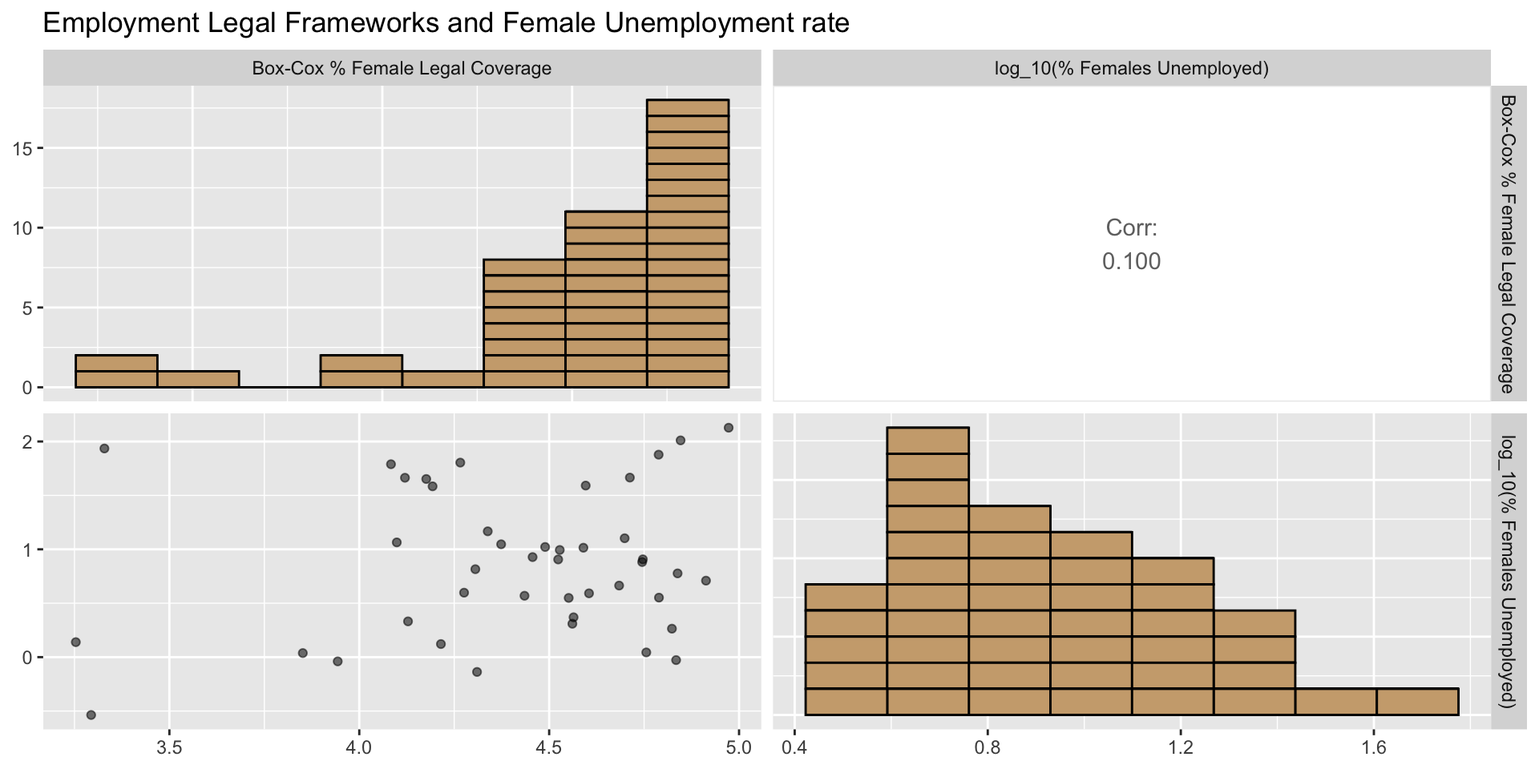
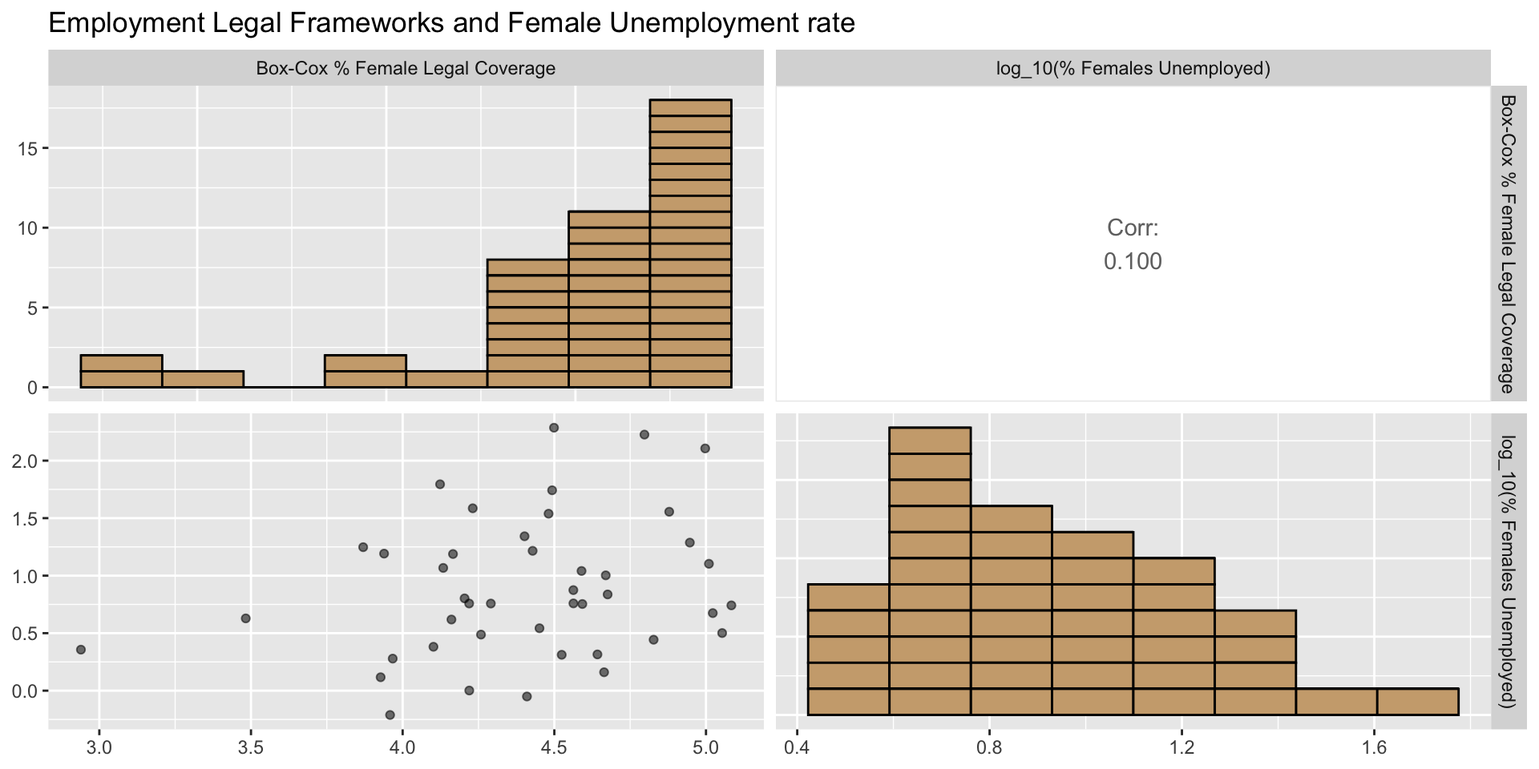
added some details

diff --git a/csc3007-black2/csc3007-black2.html b/csc3007-black2/csc3007-black2.html
@@ -431,20 +431,20 @@ CHIA YI XUAN, TSUI SAU CHI, JEANIE OH JUN NING, VARADHARAJAN JAYAPRIYA, GU JINMI
 <section id="table-of-women-economical-success" class="slide level2 center">
 <h2>Table of Women Economical Success</h2>
 </section>
-<section id="vs-8.5.2-anticipation-1" class="slide level2 center">
-<h2>5.1.1 vs 8.5.2 Anticipation</h2>
+<section id="anticipation-of-what-having-fair-employment-frameworks-does-to-female-unemployment" class="slide level2 center">
+<h2>Anticipation of what having Fair Employment Frameworks does to Female Unemployment</h2>
 <p>We anticipate that having a higher the nation’s legal framework achievements in gender equality would result in lower unemployment rate for women.</p>
 <ul>
 <li>Because by decreasing gender discrimination for women, more companies would be willing to employ women.</li>
 </ul>
 </section>
-<section id="vs-8.5.2-relation" class="slide level2 center">
-<h2>5.1.1 vs 8.5.2 Relation</h2>
+<section id="fair-employment-frameworks-vs-female-unemployment-rates" class="slide level2 center">
+<h2>Fair Employment Frameworks vs Female Unemployment Rates</h2>
 <p><small>There doesn’t seem to be any significant correlation between the percentage of legal employment and benefit frameworks for females, and the unemployment rate of females. However, this might be due to skewed distributions, hence we will re-express this data. </small></p>
 
 <img data-src="csc3007-black2_files/figure-revealjs/unnamed-chunk-10-1.png" width="960" class="r-stretch"></section>
-<section id="vs-8.5.2-relation-re-expressed" class="slide level2 center">
-<h2>5.1.1 vs 8.5.2 Relation Re-Expressed</h2>
+<section id="fair-employment-frameworks-vs-female-unemployment-rates-re-expressed" class="slide level2 center">
+<h2>Fair Employment Frameworks vs Female Unemployment Rates Re-Expressed</h2>
 <p><small>After Box Cox and logarithmic transformations, correlation coefficient seems to have improved positively. However, it still appears to be insignificant. </small></p>
 
 <img data-src="csc3007-black2_files/figure-revealjs/unnamed-chunk-11-1.png" width="960" class="r-stretch"></section>
@@ -457,7 +457,7 @@ CHIA YI XUAN, TSUI SAU CHI, JEANIE OH JUN NING, VARADHARAJAN JAYAPRIYA, GU JINMI
 </section>
 <section id="vs-8.5.1-relation" class="slide level2 center">
 <h2><strong>5.5.2 vs 8.5.1 Relation</strong></h2>
-<p>There seems to be a negative correlation between the percentage of female hourly earnings and women in managerial positions. However, this might be due to skewed distributions of female hourly earnings, hence we will re-express this data using logarithmic transformations .</p>
+<p><small> There seems to be a negative correlation between the percentage of female hourly earnings and women in managerial positions. However, this might be due to skewed distributions of female hourly earnings, hence we will re-express this data using logarithmic transformations . </small></p>
 
 <img data-src="csc3007-black2_files/figure-revealjs/unnamed-chunk-12-1.png" width="960" class="r-stretch"></section>
 <section id="four-variable-pair-plot" class="slide level2 center">
@@ -489,8 +489,13 @@ CHIA YI XUAN, TSUI SAU CHI, JEANIE OH JUN NING, VARADHARAJAN JAYAPRIYA, GU JINMI
 </section>
 <section id="summary-of-quantitative-results" class="slide level2 center">
 <h2>Summary of Quantitative Results</h2>
-<p># See project-sample slide 23</p>
-<p># Last item, require above to be done</p>
+<ul>
+<li>Moderate correlation between same-goal indicators.</li>
+<li>Moderate correlation between legal employment and benefit frameworks for females and the representation of women in managerial positions.</li>
+<li>Little correlations of statistical significance are observed between indicators for different goals.</li>
+<li>Potentially influenced by the country’s originally high unemployment rates across all genders.</li>
+<li>Missing data for significant countries such as Russia and China.</li>
+</ul>
 </section>
 <section id="policy-implications" class="slide level2 center">
 <h2>Policy Implications</h2>
@@ -774,247 +779,244 @@ cmap_852 &lt;-
 /Users/yxchia/Documents/Github &amp; Codes/csc3007-black2/csc3007-black2/csc3007-black2.qmd:519:81: style: [line_length_linter] Lines should not be more than 80 characters.
   select(Country, `% Legal Frameworks`, `% Managerial Positions`, `% Females Unemployed`, `Average Hourly Earnings $USD`)
 ~~~~~~~~~~~~~~~~~~~~~~~~~~~~~~~~~~~~~~~~~~~~~~~~~~~~~~~~~~~~~~~~~~~~~~~~~~~~~~~~^~~~~~~~~~~~~~~~~~~~~~~~~~~~~~~~~~~~~~~~~
-/Users/yxchia/Documents/Github &amp; Codes/csc3007-black2/csc3007-black2/csc3007-black2.qmd:522:5: style: [commented_code_linter] Commented code should be removed.
-#   add_header_above(c(" " = 1, "Group 1" = 2, "Group 2" = 2))
-    ^~~~~~~~~~~~~~~~~~~~~~~~~~~~~~~~~~~~~~~~~~~~~~~~~~~~~~~~~~
-/Users/yxchia/Documents/Github &amp; Codes/csc3007-black2/csc3007-black2/csc3007-black2.qmd:527:11: style: [commented_code_linter] Commented code should be removed.
+/Users/yxchia/Documents/Github &amp; Codes/csc3007-black2/csc3007-black2/csc3007-black2.qmd:524:11: style: [commented_code_linter] Commented code should be removed.
 #         "function(settings, json) {",
           ^~~~~~~~~~~~~~~~~~~~~~~~~~~~~
-/Users/yxchia/Documents/Github &amp; Codes/csc3007-black2/csc3007-black2/csc3007-black2.qmd:528:11: style: [commented_code_linter] Commented code should be removed.
+/Users/yxchia/Documents/Github &amp; Codes/csc3007-black2/csc3007-black2/csc3007-black2.qmd:525:11: style: [commented_code_linter] Commented code should be removed.
 #         paste0("$(this.api().table().container()).css({'font-size': '50%'});"),
           ^~~~~~~~~~~~~~~~~~~~~~~~~~~~~~~~~~~~~~~~~~~~~~~~~~~~~~~~~~~~~~~~~~~~~~~
-/Users/yxchia/Documents/Github &amp; Codes/csc3007-black2/csc3007-black2/csc3007-black2.qmd:528:81: style: [line_length_linter] Lines should not be more than 80 characters.
+/Users/yxchia/Documents/Github &amp; Codes/csc3007-black2/csc3007-black2/csc3007-black2.qmd:525:81: style: [line_length_linter] Lines should not be more than 80 characters.
 #         paste0("$(this.api().table().container()).css({'font-size': '50%'});"),
 ~~~~~~~~~~~~~~~~~~~~~~~~~~~~~~~~~~~~~~~~~~~~~~~~~~~~~~~~~~~~~~~~~~~~~~~~~~~~~~~~^
-/Users/yxchia/Documents/Github &amp; Codes/csc3007-black2/csc3007-black2/csc3007-black2.qmd:547:81: style: [line_length_linter] Lines should not be more than 80 characters.
+/Users/yxchia/Documents/Github &amp; Codes/csc3007-black2/csc3007-black2/csc3007-black2.qmd:544:81: style: [line_length_linter] Lines should not be more than 80 characters.
 # Correlation Graph. See Sample-Project slide 11,12,15 *Please Judge if is approriate. Goal is to see if there is any significant statitical correlation 
 ~~~~~~~~~~~~~~~~~~~~~~~~~~~~~~~~~~~~~~~~~~~~~~~~~~~~~~~~~~~~~~~~~~~~~~~~~~~~~~~~^~~~~~~~~~~~~~~~~~~~~~~~~~~~~~~~~~~~~~~~~~~~~~~~~~~~~~~~~~~~~~~~~~~~~~~~~
-/Users/yxchia/Documents/Github &amp; Codes/csc3007-black2/csc3007-black2/csc3007-black2.qmd:547:153: style: [trailing_whitespace_linter] Trailing whitespace is superfluous.
+/Users/yxchia/Documents/Github &amp; Codes/csc3007-black2/csc3007-black2/csc3007-black2.qmd:544:153: style: [trailing_whitespace_linter] Trailing whitespace is superfluous.
 # Correlation Graph. See Sample-Project slide 11,12,15 *Please Judge if is approriate. Goal is to see if there is any significant statitical correlation 
                                                                                                                                                         ^
-/Users/yxchia/Documents/Github &amp; Codes/csc3007-black2/csc3007-black2/csc3007-black2.qmd:550:67: style: [trailing_whitespace_linter] Trailing whitespace is superfluous.
+/Users/yxchia/Documents/Github &amp; Codes/csc3007-black2/csc3007-black2/csc3007-black2.qmd:547:67: style: [trailing_whitespace_linter] Trailing whitespace is superfluous.
 formatted_5_1_1 &lt;- indicator_5_1_1_employment_economic_benefits |&gt; 
                                                                   ^
-/Users/yxchia/Documents/Github &amp; Codes/csc3007-black2/csc3007-black2/csc3007-black2.qmd:552:81: style: [line_length_linter] Lines should not be more than 80 characters.
+/Users/yxchia/Documents/Github &amp; Codes/csc3007-black2/csc3007-black2/csc3007-black2.qmd:549:81: style: [line_length_linter] Lines should not be more than 80 characters.
   select("Country" = geoAreaName, ISO3, "% Female Legal Coverage" = latest_value) |&gt;
 ~~~~~~~~~~~~~~~~~~~~~~~~~~~~~~~~~~~~~~~~~~~~~~~~~~~~~~~~~~~~~~~~~~~~~~~~~~~~~~~~^~~~
-/Users/yxchia/Documents/Github &amp; Codes/csc3007-black2/csc3007-black2/csc3007-black2.qmd:558:81: style: [line_length_linter] Lines should not be more than 80 characters.
+/Users/yxchia/Documents/Github &amp; Codes/csc3007-black2/csc3007-black2/csc3007-black2.qmd:555:81: style: [line_length_linter] Lines should not be more than 80 characters.
   select("Country" = geoAreaName, ISO3, disability_status_desc, "sex" = sex_desc, "% Females Unemployed" = latest_value) |&gt;
 ~~~~~~~~~~~~~~~~~~~~~~~~~~~~~~~~~~~~~~~~~~~~~~~~~~~~~~~~~~~~~~~~~~~~~~~~~~~~~~~~^~~~~~~~~~~~~~~~~~~~~~~~~~~~~~~~~~~~~~~~~~~
-/Users/yxchia/Documents/Github &amp; Codes/csc3007-black2/csc3007-black2/csc3007-black2.qmd:559:81: style: [line_length_linter] Lines should not be more than 80 characters.
+/Users/yxchia/Documents/Github &amp; Codes/csc3007-black2/csc3007-black2/csc3007-black2.qmd:556:81: style: [line_length_linter] Lines should not be more than 80 characters.
   filter(`sex` %in% c("Female"), disability_status_desc == "No breakdown by disability") |&gt;
 ~~~~~~~~~~~~~~~~~~~~~~~~~~~~~~~~~~~~~~~~~~~~~~~~~~~~~~~~~~~~~~~~~~~~~~~~~~~~~~~~^~~~~~~~~~~
-/Users/yxchia/Documents/Github &amp; Codes/csc3007-black2/csc3007-black2/csc3007-black2.qmd:571:10: style: [trailing_whitespace_linter] Trailing whitespace is superfluous.
+/Users/yxchia/Documents/Github &amp; Codes/csc3007-black2/csc3007-black2/csc3007-black2.qmd:568:10: style: [trailing_whitespace_linter] Trailing whitespace is superfluous.
 # initial 
          ^
-/Users/yxchia/Documents/Github &amp; Codes/csc3007-black2/csc3007-black2/csc3007-black2.qmd:575:47: style: [trailing_whitespace_linter] Trailing whitespace is superfluous.
+/Users/yxchia/Documents/Github &amp; Codes/csc3007-black2/csc3007-black2/csc3007-black2.qmd:572:47: style: [trailing_whitespace_linter] Trailing whitespace is superfluous.
         columns = c("% Female Legal Coverage", 
                                               ^
-/Users/yxchia/Documents/Github &amp; Codes/csc3007-black2/csc3007-black2/csc3007-black2.qmd:577:81: style: [line_length_linter] Lines should not be more than 80 characters.
+/Users/yxchia/Documents/Github &amp; Codes/csc3007-black2/csc3007-black2/csc3007-black2.qmd:574:81: style: [line_length_linter] Lines should not be more than 80 characters.
         diag = list(continuous = wrap("barDiag", bins = 10, color = "black", alpha = 1)),
 ~~~~~~~~~~~~~~~~~~~~~~~~~~~~~~~~~~~~~~~~~~~~~~~~~~~~~~~~~~~~~~~~~~~~~~~~~~~~~~~~^~~~~~~~~
-/Users/yxchia/Documents/Github &amp; Codes/csc3007-black2/csc3007-black2/csc3007-black2.qmd:578:49: style: [trailing_whitespace_linter] Trailing whitespace is superfluous.
+/Users/yxchia/Documents/Github &amp; Codes/csc3007-black2/csc3007-black2/csc3007-black2.qmd:575:49: style: [trailing_whitespace_linter] Trailing whitespace is superfluous.
         lower = list(continuous = wrap("points", 
                                                 ^
-/Users/yxchia/Documents/Github &amp; Codes/csc3007-black2/csc3007-black2/csc3007-black2.qmd:579:46: style: [infix_spaces_linter] Put spaces around all infix operators.
+/Users/yxchia/Documents/Github &amp; Codes/csc3007-black2/csc3007-black2/csc3007-black2.qmd:576:46: style: [infix_spaces_linter] Put spaces around all infix operators.
                                      position=position_jitter(
                                              ^
-/Users/yxchia/Documents/Github &amp; Codes/csc3007-black2/csc3007-black2/csc3007-black2.qmd:580:51: style: [trailing_whitespace_linter] Trailing whitespace is superfluous.
+/Users/yxchia/Documents/Github &amp; Codes/csc3007-black2/csc3007-black2/csc3007-black2.qmd:577:51: style: [trailing_whitespace_linter] Trailing whitespace is superfluous.
                                        height = 1, 
                                                   ^
-/Users/yxchia/Documents/Github &amp; Codes/csc3007-black2/csc3007-black2/csc3007-black2.qmd:583:27: style: [infix_spaces_linter] Put spaces around all infix operators.
+/Users/yxchia/Documents/Github &amp; Codes/csc3007-black2/csc3007-black2/csc3007-black2.qmd:580:27: style: [infix_spaces_linter] Put spaces around all infix operators.
   scale_fill_manual(values=c(rep("burlywood3", nrow(merged_data))))
                           ^
-/Users/yxchia/Documents/Github &amp; Codes/csc3007-black2/csc3007-black2/csc3007-black2.qmd:584:3: style: [commented_code_linter] Commented code should be removed.
+/Users/yxchia/Documents/Github &amp; Codes/csc3007-black2/csc3007-black2/csc3007-black2.qmd:581:3: style: [commented_code_linter] Commented code should be removed.
 # ggplotly(plot)
   ^~~~~~~~~~~~~~
-/Users/yxchia/Documents/Github &amp; Codes/csc3007-black2/csc3007-black2/csc3007-black2.qmd:614:55: style: [trailing_whitespace_linter] Trailing whitespace is superfluous.
+/Users/yxchia/Documents/Github &amp; Codes/csc3007-black2/csc3007-black2/csc3007-black2.qmd:611:55: style: [trailing_whitespace_linter] Trailing whitespace is superfluous.
         columns = c("Box-Cox % Female Legal Coverage", 
                                                       ^
-/Users/yxchia/Documents/Github &amp; Codes/csc3007-black2/csc3007-black2/csc3007-black2.qmd:616:81: style: [line_length_linter] Lines should not be more than 80 characters.
+/Users/yxchia/Documents/Github &amp; Codes/csc3007-black2/csc3007-black2/csc3007-black2.qmd:613:81: style: [line_length_linter] Lines should not be more than 80 characters.
         diag = list(continuous = wrap("barDiag", bins = 8, color = "black", alpha = 1)),
 ~~~~~~~~~~~~~~~~~~~~~~~~~~~~~~~~~~~~~~~~~~~~~~~~~~~~~~~~~~~~~~~~~~~~~~~~~~~~~~~~^~~~~~~~
-/Users/yxchia/Documents/Github &amp; Codes/csc3007-black2/csc3007-black2/csc3007-black2.qmd:617:49: style: [trailing_whitespace_linter] Trailing whitespace is superfluous.
+/Users/yxchia/Documents/Github &amp; Codes/csc3007-black2/csc3007-black2/csc3007-black2.qmd:614:49: style: [trailing_whitespace_linter] Trailing whitespace is superfluous.
         lower = list(continuous = wrap("points", 
                                                 ^
-/Users/yxchia/Documents/Github &amp; Codes/csc3007-black2/csc3007-black2/csc3007-black2.qmd:618:46: style: [infix_spaces_linter] Put spaces around all infix operators.
+/Users/yxchia/Documents/Github &amp; Codes/csc3007-black2/csc3007-black2/csc3007-black2.qmd:615:46: style: [infix_spaces_linter] Put spaces around all infix operators.
                                      position=position_jitter(
                                              ^
-/Users/yxchia/Documents/Github &amp; Codes/csc3007-black2/csc3007-black2/csc3007-black2.qmd:619:46: style: [infix_spaces_linter] Put spaces around all infix operators.
+/Users/yxchia/Documents/Github &amp; Codes/csc3007-black2/csc3007-black2/csc3007-black2.qmd:616:46: style: [infix_spaces_linter] Put spaces around all infix operators.
                                        height=1, 
                                              ^
-/Users/yxchia/Documents/Github &amp; Codes/csc3007-black2/csc3007-black2/csc3007-black2.qmd:619:49: style: [trailing_whitespace_linter] Trailing whitespace is superfluous.
+/Users/yxchia/Documents/Github &amp; Codes/csc3007-black2/csc3007-black2/csc3007-black2.qmd:616:49: style: [trailing_whitespace_linter] Trailing whitespace is superfluous.
                                        height=1, 
                                                 ^
-/Users/yxchia/Documents/Github &amp; Codes/csc3007-black2/csc3007-black2/csc3007-black2.qmd:620:45: style: [infix_spaces_linter] Put spaces around all infix operators.
+/Users/yxchia/Documents/Github &amp; Codes/csc3007-black2/csc3007-black2/csc3007-black2.qmd:617:45: style: [infix_spaces_linter] Put spaces around all infix operators.
                                        width=0.5)))) +
                                             ^
-/Users/yxchia/Documents/Github &amp; Codes/csc3007-black2/csc3007-black2/csc3007-black2.qmd:621:27: style: [infix_spaces_linter] Put spaces around all infix operators.
+/Users/yxchia/Documents/Github &amp; Codes/csc3007-black2/csc3007-black2/csc3007-black2.qmd:618:27: style: [infix_spaces_linter] Put spaces around all infix operators.
   scale_fill_manual(values=c(rep("burlywood3", nrow(merged_data))))
                           ^
-/Users/yxchia/Documents/Github &amp; Codes/csc3007-black2/csc3007-black2/csc3007-black2.qmd:623:3: style: [commented_code_linter] Commented code should be removed.
+/Users/yxchia/Documents/Github &amp; Codes/csc3007-black2/csc3007-black2/csc3007-black2.qmd:620:3: style: [commented_code_linter] Commented code should be removed.
 # ggplotly(plot)
   ^~~~~~~~~~~~~~
-/Users/yxchia/Documents/Github &amp; Codes/csc3007-black2/csc3007-black2/csc3007-black2.qmd:639:81: style: [line_length_linter] Lines should not be more than 80 characters.
+/Users/yxchia/Documents/Github &amp; Codes/csc3007-black2/csc3007-black2/csc3007-black2.qmd:636:81: style: [line_length_linter] Lines should not be more than 80 characters.
 # Correlation Graph. See Sample-Project slide 11,12,15 *Please Judge if is approriate. Goal is to see if there is any significant statitical correlation 
 ~~~~~~~~~~~~~~~~~~~~~~~~~~~~~~~~~~~~~~~~~~~~~~~~~~~~~~~~~~~~~~~~~~~~~~~~~~~~~~~~^~~~~~~~~~~~~~~~~~~~~~~~~~~~~~~~~~~~~~~~~~~~~~~~~~~~~~~~~~~~~~~~~~~~~~~~~
-/Users/yxchia/Documents/Github &amp; Codes/csc3007-black2/csc3007-black2/csc3007-black2.qmd:639:153: style: [trailing_whitespace_linter] Trailing whitespace is superfluous.
+/Users/yxchia/Documents/Github &amp; Codes/csc3007-black2/csc3007-black2/csc3007-black2.qmd:636:153: style: [trailing_whitespace_linter] Trailing whitespace is superfluous.
 # Correlation Graph. See Sample-Project slide 11,12,15 *Please Judge if is approriate. Goal is to see if there is any significant statitical correlation 
                                                                                                                                                         ^
-/Users/yxchia/Documents/Github &amp; Codes/csc3007-black2/csc3007-black2/csc3007-black2.qmd:644:81: style: [line_length_linter] Lines should not be more than 80 characters.
+/Users/yxchia/Documents/Github &amp; Codes/csc3007-black2/csc3007-black2/csc3007-black2.qmd:641:81: style: [line_length_linter] Lines should not be more than 80 characters.
   select("Country" = geoAreaName, ISO3, "% Women in Managerial Positions" = latest_value) |&gt;
 ~~~~~~~~~~~~~~~~~~~~~~~~~~~~~~~~~~~~~~~~~~~~~~~~~~~~~~~~~~~~~~~~~~~~~~~~~~~~~~~~^~~~~~~~~~~~
-/Users/yxchia/Documents/Github &amp; Codes/csc3007-black2/csc3007-black2/csc3007-black2.qmd:651:81: style: [line_length_linter] Lines should not be more than 80 characters.
+/Users/yxchia/Documents/Github &amp; Codes/csc3007-black2/csc3007-black2/csc3007-black2.qmd:648:81: style: [line_length_linter] Lines should not be more than 80 characters.
   select("Country" = geoAreaName, ISO3, "% Female Hourly Earnings" = latest_value) |&gt;
 ~~~~~~~~~~~~~~~~~~~~~~~~~~~~~~~~~~~~~~~~~~~~~~~~~~~~~~~~~~~~~~~~~~~~~~~~~~~~~~~~^~~~~
-/Users/yxchia/Documents/Github &amp; Codes/csc3007-black2/csc3007-black2/csc3007-black2.qmd:662:81: style: [line_length_linter] Lines should not be more than 80 characters.
+/Users/yxchia/Documents/Github &amp; Codes/csc3007-black2/csc3007-black2/csc3007-black2.qmd:659:81: style: [line_length_linter] Lines should not be more than 80 characters.
                       title = "Proportion of Women in Managerial Positions vs Average Hourly Earnings (Female Employees)",
 ~~~~~~~~~~~~~~~~~~~~~~~~~~~~~~~~~~~~~~~~~~~~~~~~~~~~~~~~~~~~~~~~~~~~~~~~~~~~~~~~^~~~~~~~~~~~~~~~~~~~~~~~~~~~~~~~~~~~~~~~~~
-/Users/yxchia/Documents/Github &amp; Codes/csc3007-black2/csc3007-black2/csc3007-black2.qmd:663:81: style: [line_length_linter] Lines should not be more than 80 characters.
+/Users/yxchia/Documents/Github &amp; Codes/csc3007-black2/csc3007-black2/csc3007-black2.qmd:660:81: style: [line_length_linter] Lines should not be more than 80 characters.
                       columns = c("% Women in Managerial Positions", "% Female Hourly Earnings"),
 ~~~~~~~~~~~~~~~~~~~~~~~~~~~~~~~~~~~~~~~~~~~~~~~~~~~~~~~~~~~~~~~~~~~~~~~~~~~~~~~~^~~~~~~~~~~~~~~~~
-/Users/yxchia/Documents/Github &amp; Codes/csc3007-black2/csc3007-black2/csc3007-black2.qmd:664:81: style: [line_length_linter] Lines should not be more than 80 characters.
+/Users/yxchia/Documents/Github &amp; Codes/csc3007-black2/csc3007-black2/csc3007-black2.qmd:661:81: style: [line_length_linter] Lines should not be more than 80 characters.
                       diag = list(continuous = wrap("barDiag", bins = 10, color = "black", alpha = 1)),
 ~~~~~~~~~~~~~~~~~~~~~~~~~~~~~~~~~~~~~~~~~~~~~~~~~~~~~~~~~~~~~~~~~~~~~~~~~~~~~~~~^~~~~~~~~~~~~~~~~~~~~~~
-/Users/yxchia/Documents/Github &amp; Codes/csc3007-black2/csc3007-black2/csc3007-black2.qmd:668:72: style: [trailing_whitespace_linter] Trailing whitespace is superfluous.
+/Users/yxchia/Documents/Github &amp; Codes/csc3007-black2/csc3007-black2/csc3007-black2.qmd:665:72: style: [trailing_whitespace_linter] Trailing whitespace is superfluous.
                                                       width = 0.5)))) + 
                                                                        ^
-/Users/yxchia/Documents/Github &amp; Codes/csc3007-black2/csc3007-black2/csc3007-black2.qmd:669:27: style: [infix_spaces_linter] Put spaces around all infix operators.
+/Users/yxchia/Documents/Github &amp; Codes/csc3007-black2/csc3007-black2/csc3007-black2.qmd:666:27: style: [infix_spaces_linter] Put spaces around all infix operators.
   scale_fill_manual(values=c(rep("burlywood3", nrow(merged_data))))
                           ^
-/Users/yxchia/Documents/Github &amp; Codes/csc3007-black2/csc3007-black2/csc3007-black2.qmd:686:67: style: [trailing_whitespace_linter] Trailing whitespace is superfluous.
+/Users/yxchia/Documents/Github &amp; Codes/csc3007-black2/csc3007-black2/csc3007-black2.qmd:683:67: style: [trailing_whitespace_linter] Trailing whitespace is superfluous.
 formatted_5_1_1 &lt;- indicator_5_1_1_employment_economic_benefits |&gt; 
                                                                   ^
-/Users/yxchia/Documents/Github &amp; Codes/csc3007-black2/csc3007-black2/csc3007-black2.qmd:688:81: style: [line_length_linter] Lines should not be more than 80 characters.
+/Users/yxchia/Documents/Github &amp; Codes/csc3007-black2/csc3007-black2/csc3007-black2.qmd:685:81: style: [line_length_linter] Lines should not be more than 80 characters.
   select("Country" = geoAreaName, ISO3, "% Female Legal Coverage" = latest_value) |&gt;
 ~~~~~~~~~~~~~~~~~~~~~~~~~~~~~~~~~~~~~~~~~~~~~~~~~~~~~~~~~~~~~~~~~~~~~~~~~~~~~~~~^~~~
-/Users/yxchia/Documents/Github &amp; Codes/csc3007-black2/csc3007-black2/csc3007-black2.qmd:694:81: style: [line_length_linter] Lines should not be more than 80 characters.
+/Users/yxchia/Documents/Github &amp; Codes/csc3007-black2/csc3007-black2/csc3007-black2.qmd:691:81: style: [line_length_linter] Lines should not be more than 80 characters.
   select("Country" = geoAreaName, ISO3, disability_status_desc, "sex" = sex_desc, "% Females Unemployed" = latest_value) |&gt;
 ~~~~~~~~~~~~~~~~~~~~~~~~~~~~~~~~~~~~~~~~~~~~~~~~~~~~~~~~~~~~~~~~~~~~~~~~~~~~~~~~^~~~~~~~~~~~~~~~~~~~~~~~~~~~~~~~~~~~~~~~~~~
-/Users/yxchia/Documents/Github &amp; Codes/csc3007-black2/csc3007-black2/csc3007-black2.qmd:695:81: style: [line_length_linter] Lines should not be more than 80 characters.
+/Users/yxchia/Documents/Github &amp; Codes/csc3007-black2/csc3007-black2/csc3007-black2.qmd:692:81: style: [line_length_linter] Lines should not be more than 80 characters.
   filter(`sex` %in% c("Female"), disability_status_desc == "No breakdown by disability") |&gt;
 ~~~~~~~~~~~~~~~~~~~~~~~~~~~~~~~~~~~~~~~~~~~~~~~~~~~~~~~~~~~~~~~~~~~~~~~~~~~~~~~~^~~~~~~~~~~
-/Users/yxchia/Documents/Github &amp; Codes/csc3007-black2/csc3007-black2/csc3007-black2.qmd:702:81: style: [line_length_linter] Lines should not be more than 80 characters.
+/Users/yxchia/Documents/Github &amp; Codes/csc3007-black2/csc3007-black2/csc3007-black2.qmd:699:81: style: [line_length_linter] Lines should not be more than 80 characters.
   select("Country" = geoAreaName, ISO3, "% Women in Managerial Positions" = latest_value) |&gt;
 ~~~~~~~~~~~~~~~~~~~~~~~~~~~~~~~~~~~~~~~~~~~~~~~~~~~~~~~~~~~~~~~~~~~~~~~~~~~~~~~~^~~~~~~~~~~~
-/Users/yxchia/Documents/Github &amp; Codes/csc3007-black2/csc3007-black2/csc3007-black2.qmd:709:81: style: [line_length_linter] Lines should not be more than 80 characters.
+/Users/yxchia/Documents/Github &amp; Codes/csc3007-black2/csc3007-black2/csc3007-black2.qmd:706:81: style: [line_length_linter] Lines should not be more than 80 characters.
   select("Country" = geoAreaName, ISO3, "% Female Hourly Earnings" = latest_value) |&gt;
 ~~~~~~~~~~~~~~~~~~~~~~~~~~~~~~~~~~~~~~~~~~~~~~~~~~~~~~~~~~~~~~~~~~~~~~~~~~~~~~~~^~~~~
-/Users/yxchia/Documents/Github &amp; Codes/csc3007-black2/csc3007-black2/csc3007-black2.qmd:719:81: style: [line_length_linter] Lines should not be more than 80 characters.
+/Users/yxchia/Documents/Github &amp; Codes/csc3007-black2/csc3007-black2/csc3007-black2.qmd:716:81: style: [line_length_linter] Lines should not be more than 80 characters.
 # Perform sqrt transformation for "% Female Hourly Earnings" and log transformation for "% Females Unemployed"
 ~~~~~~~~~~~~~~~~~~~~~~~~~~~~~~~~~~~~~~~~~~~~~~~~~~~~~~~~~~~~~~~~~~~~~~~~~~~~~~~~^~~~~~~~~~~~~~~~~~~~~~~~~~~~~~
-/Users/yxchia/Documents/Github &amp; Codes/csc3007-black2/csc3007-black2/csc3007-black2.qmd:731:81: style: [line_length_linter] Lines should not be more than 80 characters.
+/Users/yxchia/Documents/Github &amp; Codes/csc3007-black2/csc3007-black2/csc3007-black2.qmd:728:81: style: [line_length_linter] Lines should not be more than 80 characters.
                       columns = c("% Female Legal Coverage", "% Females Unemployed", "% Women in Managerial Positions", "% Female Hourly Earnings"),
 ~~~~~~~~~~~~~~~~~~~~~~~~~~~~~~~~~~~~~~~~~~~~~~~~~~~~~~~~~~~~~~~~~~~~~~~~~~~~~~~~^~~~~~~~~~~~~~~~~~~~~~~~~~~~~~~~~~~~~~~~~~~~~~~~~~~~~~~~~~~~~~~~~~~~
-/Users/yxchia/Documents/Github &amp; Codes/csc3007-black2/csc3007-black2/csc3007-black2.qmd:732:81: style: [line_length_linter] Lines should not be more than 80 characters.
+/Users/yxchia/Documents/Github &amp; Codes/csc3007-black2/csc3007-black2/csc3007-black2.qmd:729:81: style: [line_length_linter] Lines should not be more than 80 characters.
                       diag = list(continuous = wrap("barDiag", bins = 10, color = "black", alpha = 1)),
 ~~~~~~~~~~~~~~~~~~~~~~~~~~~~~~~~~~~~~~~~~~~~~~~~~~~~~~~~~~~~~~~~~~~~~~~~~~~~~~~~^~~~~~~~~~~~~~~~~~~~~~~
-/Users/yxchia/Documents/Github &amp; Codes/csc3007-black2/csc3007-black2/csc3007-black2.qmd:734:81: style: [line_length_linter] Lines should not be more than 80 characters.
+/Users/yxchia/Documents/Github &amp; Codes/csc3007-black2/csc3007-black2/csc3007-black2.qmd:731:81: style: [line_length_linter] Lines should not be more than 80 characters.
                                                     position = position_jitter(height = 1, width = 0.5)))) +
 ~~~~~~~~~~~~~~~~~~~~~~~~~~~~~~~~~~~~~~~~~~~~~~~~~~~~~~~~~~~~~~~~~~~~~~~~~~~~~~~~^~~~~~~~~~~~~~~~~~~~~~~~~~~~
-/Users/yxchia/Documents/Github &amp; Codes/csc3007-black2/csc3007-black2/csc3007-black2.qmd:735:27: style: [infix_spaces_linter] Put spaces around all infix operators.
+/Users/yxchia/Documents/Github &amp; Codes/csc3007-black2/csc3007-black2/csc3007-black2.qmd:732:27: style: [infix_spaces_linter] Put spaces around all infix operators.
   scale_fill_manual(values=c(rep("burlywood3", nrow(merged_data))))
                           ^
-/Users/yxchia/Documents/Github &amp; Codes/csc3007-black2/csc3007-black2/csc3007-black2.qmd:745:25: style: [trailing_whitespace_linter] Trailing whitespace is superfluous.
+/Users/yxchia/Documents/Github &amp; Codes/csc3007-black2/csc3007-black2/csc3007-black2.qmd:742:25: style: [trailing_whitespace_linter] Trailing whitespace is superfluous.
 # VARADHARAJAN JAYAPRIYA 
                         ^
-/Users/yxchia/Documents/Github &amp; Codes/csc3007-black2/csc3007-black2/csc3007-black2.qmd:746:51: style: [trailing_whitespace_linter] Trailing whitespace is superfluous.
+/Users/yxchia/Documents/Github &amp; Codes/csc3007-black2/csc3007-black2/csc3007-black2.qmd:743:51: style: [trailing_whitespace_linter] Trailing whitespace is superfluous.
 # merge data using left join, and drop all NA rows 
                                                   ^
-/Users/yxchia/Documents/Github &amp; Codes/csc3007-black2/csc3007-black2/csc3007-black2.qmd:748:34: style: [trailing_whitespace_linter] Trailing whitespace is superfluous.
+/Users/yxchia/Documents/Github &amp; Codes/csc3007-black2/csc3007-black2/csc3007-black2.qmd:745:34: style: [trailing_whitespace_linter] Trailing whitespace is superfluous.
 merged_data &lt;- formatted_8_5_2 |&gt;   
                                  ^~~
-/Users/yxchia/Documents/Github &amp; Codes/csc3007-black2/csc3007-black2/csc3007-black2.qmd:749:29: style: [trailing_whitespace_linter] Trailing whitespace is superfluous.
+/Users/yxchia/Documents/Github &amp; Codes/csc3007-black2/csc3007-black2/csc3007-black2.qmd:746:29: style: [trailing_whitespace_linter] Trailing whitespace is superfluous.
   left_join(formatted_5_1_1, 
                             ^
-/Users/yxchia/Documents/Github &amp; Codes/csc3007-black2/csc3007-black2/csc3007-black2.qmd:750:42: style: [trailing_whitespace_linter] Trailing whitespace is superfluous.
+/Users/yxchia/Documents/Github &amp; Codes/csc3007-black2/csc3007-black2/csc3007-black2.qmd:747:42: style: [trailing_whitespace_linter] Trailing whitespace is superfluous.
             by = c("ISO3", "Country")) |&gt;   
                                          ^~~
-/Users/yxchia/Documents/Github &amp; Codes/csc3007-black2/csc3007-black2/csc3007-black2.qmd:751:29: style: [trailing_whitespace_linter] Trailing whitespace is superfluous.
+/Users/yxchia/Documents/Github &amp; Codes/csc3007-black2/csc3007-black2/csc3007-black2.qmd:748:29: style: [trailing_whitespace_linter] Trailing whitespace is superfluous.
   left_join(formatted_5_5_2, 
                             ^
-/Users/yxchia/Documents/Github &amp; Codes/csc3007-black2/csc3007-black2/csc3007-black2.qmd:752:42: style: [trailing_whitespace_linter] Trailing whitespace is superfluous.
+/Users/yxchia/Documents/Github &amp; Codes/csc3007-black2/csc3007-black2/csc3007-black2.qmd:749:42: style: [trailing_whitespace_linter] Trailing whitespace is superfluous.
             by = c("ISO3", "Country")) |&gt;   
                                          ^~~
-/Users/yxchia/Documents/Github &amp; Codes/csc3007-black2/csc3007-black2/csc3007-black2.qmd:753:29: style: [trailing_whitespace_linter] Trailing whitespace is superfluous.
+/Users/yxchia/Documents/Github &amp; Codes/csc3007-black2/csc3007-black2/csc3007-black2.qmd:750:29: style: [trailing_whitespace_linter] Trailing whitespace is superfluous.
   left_join(formatted_8_5_1, 
                             ^
-/Users/yxchia/Documents/Github &amp; Codes/csc3007-black2/csc3007-black2/csc3007-black2.qmd:754:39: style: [trailing_whitespace_linter] Trailing whitespace is superfluous.
+/Users/yxchia/Documents/Github &amp; Codes/csc3007-black2/csc3007-black2/csc3007-black2.qmd:751:39: style: [trailing_whitespace_linter] Trailing whitespace is superfluous.
             by = c("ISO3", "Country")) 
                                       ^
-/Users/yxchia/Documents/Github &amp; Codes/csc3007-black2/csc3007-black2/csc3007-black2.qmd:756:81: style: [line_length_linter] Lines should not be more than 80 characters.
+/Users/yxchia/Documents/Github &amp; Codes/csc3007-black2/csc3007-black2/csc3007-black2.qmd:753:81: style: [line_length_linter] Lines should not be more than 80 characters.
 # Perform sqrt transformation for "% Female Hourly Earnings" and log transformation for "% Females Unemployed"
 ~~~~~~~~~~~~~~~~~~~~~~~~~~~~~~~~~~~~~~~~~~~~~~~~~~~~~~~~~~~~~~~~~~~~~~~~~~~~~~~~^~~~~~~~~~~~~~~~~~~~~~~~~~~~~~
-/Users/yxchia/Documents/Github &amp; Codes/csc3007-black2/csc3007-black2/csc3007-black2.qmd:761:27: style: [trailing_whitespace_linter] Trailing whitespace is superfluous.
+/Users/yxchia/Documents/Github &amp; Codes/csc3007-black2/csc3007-black2/csc3007-black2.qmd:758:27: style: [trailing_whitespace_linter] Trailing whitespace is superfluous.
 # Drop rows with NA values 
                           ^
-/Users/yxchia/Documents/Github &amp; Codes/csc3007-black2/csc3007-black2/csc3007-black2.qmd:762:44: style: [trailing_whitespace_linter] Trailing whitespace is superfluous.
+/Users/yxchia/Documents/Github &amp; Codes/csc3007-black2/csc3007-black2/csc3007-black2.qmd:759:44: style: [trailing_whitespace_linter] Trailing whitespace is superfluous.
 normalised_data &lt;- drop_na(normalised_data) 
                                            ^
-/Users/yxchia/Documents/Github &amp; Codes/csc3007-black2/csc3007-black2/csc3007-black2.qmd:764:81: style: [line_length_linter] Lines should not be more than 80 characters.
+/Users/yxchia/Documents/Github &amp; Codes/csc3007-black2/csc3007-black2/csc3007-black2.qmd:761:81: style: [line_length_linter] Lines should not be more than 80 characters.
 normalised_data_cols &lt;- normalised_data[, c("% Female Legal Coverage", "% Females Unemployed", "% Women in Managerial Positions", "sqrt(% Female Hourly Earnings)")]  
 ~~~~~~~~~~~~~~~~~~~~~~~~~~~~~~~~~~~~~~~~~~~~~~~~~~~~~~~~~~~~~~~~~~~~~~~~~~~~~~~~^~~~~~~~~~~~~~~~~~~~~~~~~~~~~~~~~~~~~~~~~~~~~~~~~~~~~~~~~~~~~~~~~~~~~~~~~~~~~~~~~~~~~~
-/Users/yxchia/Documents/Github &amp; Codes/csc3007-black2/csc3007-black2/csc3007-black2.qmd:764:165: style: [trailing_whitespace_linter] Trailing whitespace is superfluous.
+/Users/yxchia/Documents/Github &amp; Codes/csc3007-black2/csc3007-black2/csc3007-black2.qmd:761:165: style: [trailing_whitespace_linter] Trailing whitespace is superfluous.
 normalised_data_cols &lt;- normalised_data[, c("% Female Legal Coverage", "% Females Unemployed", "% Women in Managerial Positions", "sqrt(% Female Hourly Earnings)")]  
                                                                                                                                                                     ^~
-/Users/yxchia/Documents/Github &amp; Codes/csc3007-black2/csc3007-black2/csc3007-black2.qmd:765:14: style: [trailing_whitespace_linter] Trailing whitespace is superfluous.
+/Users/yxchia/Documents/Github &amp; Codes/csc3007-black2/csc3007-black2/csc3007-black2.qmd:762:14: style: [trailing_whitespace_linter] Trailing whitespace is superfluous.
 set.seed(123) 
              ^
-/Users/yxchia/Documents/Github &amp; Codes/csc3007-black2/csc3007-black2/csc3007-black2.qmd:791:1: style: [object_name_linter] Variable and function name style should be snake_case or symbols.
+/Users/yxchia/Documents/Github &amp; Codes/csc3007-black2/csc3007-black2/csc3007-black2.qmd:788:1: style: [object_name_linter] Variable and function name style should be snake_case or symbols.
 km.out &lt;- kmeans(normalised_data_cols, centers = 2, nstart = 20)
 ^~~~~~
-/Users/yxchia/Documents/Github &amp; Codes/csc3007-black2/csc3007-black2/csc3007-black2.qmd:798:81: style: [line_length_linter] Lines should not be more than 80 characters.
+/Users/yxchia/Documents/Github &amp; Codes/csc3007-black2/csc3007-black2/csc3007-black2.qmd:795:81: style: [line_length_linter] Lines should not be more than 80 characters.
         columns = c("% Female Legal Coverage", "log_10(% Females Unemployed)", "% Women in Managerial Positions", "sqrt(% Female Hourly Earnings)"),
 ~~~~~~~~~~~~~~~~~~~~~~~~~~~~~~~~~~~~~~~~~~~~~~~~~~~~~~~~~~~~~~~~~~~~~~~~~~~~~~~~^~~~~~~~~~~~~~~~~~~~~~~~~~~~~~~~~~~~~~~~~~~~~~~~~~~~~~~~~~~~~~~~~~~~
-/Users/yxchia/Documents/Github &amp; Codes/csc3007-black2/csc3007-black2/csc3007-black2.qmd:803:81: style: [line_length_linter] Lines should not be more than 80 characters.
+/Users/yxchia/Documents/Github &amp; Codes/csc3007-black2/csc3007-black2/csc3007-black2.qmd:800:81: style: [line_length_linter] Lines should not be more than 80 characters.
                                        position = position_jitter(height = 1, width = 0.5),
 ~~~~~~~~~~~~~~~~~~~~~~~~~~~~~~~~~~~~~~~~~~~~~~~~~~~~~~~~~~~~~~~~~~~~~~~~~~~~~~~~^~~~~~~~~~~
-/Users/yxchia/Documents/Github &amp; Codes/csc3007-black2/csc3007-black2/csc3007-black2.qmd:818:26: style: [trailing_whitespace_linter] Trailing whitespace is superfluous.
+/Users/yxchia/Documents/Github &amp; Codes/csc3007-black2/csc3007-black2/csc3007-black2.qmd:815:26: style: [trailing_whitespace_linter] Trailing whitespace is superfluous.
 # Load Country Level Data 
                          ^
-/Users/yxchia/Documents/Github &amp; Codes/csc3007-black2/csc3007-black2/csc3007-black2.qmd:820:21: style: [trailing_whitespace_linter] Trailing whitespace is superfluous.
+/Users/yxchia/Documents/Github &amp; Codes/csc3007-black2/csc3007-black2/csc3007-black2.qmd:817:21: style: [trailing_whitespace_linter] Trailing whitespace is superfluous.
 # Step1: Import Data 
                     ^
-/Users/yxchia/Documents/Github &amp; Codes/csc3007-black2/csc3007-black2/csc3007-black2.qmd:821:81: style: [line_length_linter] Lines should not be more than 80 characters.
+/Users/yxchia/Documents/Github &amp; Codes/csc3007-black2/csc3007-black2/csc3007-black2.qmd:818:81: style: [line_length_linter] Lines should not be more than 80 characters.
 happy_index &lt;- read_excel("data/happy-planet-index-2006-2020-public-data-set.xlsx", sheet = 2, skip = 7)
 ~~~~~~~~~~~~~~~~~~~~~~~~~~~~~~~~~~~~~~~~~~~~~~~~~~~~~~~~~~~~~~~~~~~~~~~~~~~~~~~~^~~~~~~~~~~~~~~~~~~~~~~~
-/Users/yxchia/Documents/Github &amp; Codes/csc3007-black2/csc3007-black2/csc3007-black2.qmd:862:25: warning: [seq_linter] 1:nrow(...) is likely to be wrong in the empty edge case. Use seq_len(nrow(...)) instead.
+/Users/yxchia/Documents/Github &amp; Codes/csc3007-black2/csc3007-black2/csc3007-black2.qmd:859:25: warning: [seq_linter] 1:nrow(...) is likely to be wrong in the empty edge case. Use seq_len(nrow(...)) instead.
 shuffle_index &lt;- sample(1:nrow(merged_data))
                         ^~~~~~~~~~~~~~~~~~~
-/Users/yxchia/Documents/Github &amp; Codes/csc3007-black2/csc3007-black2/csc3007-black2.qmd:872:26: style: [infix_spaces_linter] Put spaces around all infix operators.
+/Users/yxchia/Documents/Github &amp; Codes/csc3007-black2/csc3007-black2/csc3007-black2.qmd:869:26: style: [infix_spaces_linter] Put spaces around all infix operators.
 tree &lt;- rpart(cluster_id ~., data = train_data, method="class", minsplit=5, minbucket=1)
                          ^
-/Users/yxchia/Documents/Github &amp; Codes/csc3007-black2/csc3007-black2/csc3007-black2.qmd:872:55: style: [infix_spaces_linter] Put spaces around all infix operators.
+/Users/yxchia/Documents/Github &amp; Codes/csc3007-black2/csc3007-black2/csc3007-black2.qmd:869:55: style: [infix_spaces_linter] Put spaces around all infix operators.
 tree &lt;- rpart(cluster_id ~., data = train_data, method="class", minsplit=5, minbucket=1)
                                                       ^
-/Users/yxchia/Documents/Github &amp; Codes/csc3007-black2/csc3007-black2/csc3007-black2.qmd:872:73: style: [infix_spaces_linter] Put spaces around all infix operators.
+/Users/yxchia/Documents/Github &amp; Codes/csc3007-black2/csc3007-black2/csc3007-black2.qmd:869:73: style: [infix_spaces_linter] Put spaces around all infix operators.
 tree &lt;- rpart(cluster_id ~., data = train_data, method="class", minsplit=5, minbucket=1)
                                                                         ^
-/Users/yxchia/Documents/Github &amp; Codes/csc3007-black2/csc3007-black2/csc3007-black2.qmd:872:81: style: [line_length_linter] Lines should not be more than 80 characters.
+/Users/yxchia/Documents/Github &amp; Codes/csc3007-black2/csc3007-black2/csc3007-black2.qmd:869:81: style: [line_length_linter] Lines should not be more than 80 characters.
 tree &lt;- rpart(cluster_id ~., data = train_data, method="class", minsplit=5, minbucket=1)
 ~~~~~~~~~~~~~~~~~~~~~~~~~~~~~~~~~~~~~~~~~~~~~~~~~~~~~~~~~~~~~~~~~~~~~~~~~~~~~~~~^~~~~~~~
-/Users/yxchia/Documents/Github &amp; Codes/csc3007-black2/csc3007-black2/csc3007-black2.qmd:872:86: style: [infix_spaces_linter] Put spaces around all infix operators.
+/Users/yxchia/Documents/Github &amp; Codes/csc3007-black2/csc3007-black2/csc3007-black2.qmd:869:86: style: [infix_spaces_linter] Put spaces around all infix operators.
 tree &lt;- rpart(cluster_id ~., data = train_data, method="class", minsplit=5, minbucket=1)
                                                                                      ^
-/Users/yxchia/Documents/Github &amp; Codes/csc3007-black2/csc3007-black2/csc3007-black2.qmd:873:29: style: [infix_spaces_linter] Put spaces around all infix operators.
+/Users/yxchia/Documents/Github &amp; Codes/csc3007-black2/csc3007-black2/csc3007-black2.qmd:870:29: style: [infix_spaces_linter] Put spaces around all infix operators.
 rpart.plot(tree, box.palette="GnRd")
                             ^
-/Users/yxchia/Documents/Github &amp; Codes/csc3007-black2/csc3007-black2/csc3007-black2.qmd:886:27: style: [infix_spaces_linter] Put spaces around all infix operators.
+/Users/yxchia/Documents/Github &amp; Codes/csc3007-black2/csc3007-black2/csc3007-black2.qmd:883:27: style: [infix_spaces_linter] Put spaces around all infix operators.
 model &lt;- train(cluster_id ~., data = merged_data, method = "rpart", trControl = ctrl, minsplit=5, minbucket=1)
                           ^
-/Users/yxchia/Documents/Github &amp; Codes/csc3007-black2/csc3007-black2/csc3007-black2.qmd:886:81: style: [line_length_linter] Lines should not be more than 80 characters.
+/Users/yxchia/Documents/Github &amp; Codes/csc3007-black2/csc3007-black2/csc3007-black2.qmd:883:81: style: [line_length_linter] Lines should not be more than 80 characters.
 model &lt;- train(cluster_id ~., data = merged_data, method = "rpart", trControl = ctrl, minsplit=5, minbucket=1)
 ~~~~~~~~~~~~~~~~~~~~~~~~~~~~~~~~~~~~~~~~~~~~~~~~~~~~~~~~~~~~~~~~~~~~~~~~~~~~~~~~^~~~~~~~~~~~~~~~~~~~~~~~~~~~~~
-/Users/yxchia/Documents/Github &amp; Codes/csc3007-black2/csc3007-black2/csc3007-black2.qmd:886:95: style: [infix_spaces_linter] Put spaces around all infix operators.
+/Users/yxchia/Documents/Github &amp; Codes/csc3007-black2/csc3007-black2/csc3007-black2.qmd:883:95: style: [infix_spaces_linter] Put spaces around all infix operators.
 model &lt;- train(cluster_id ~., data = merged_data, method = "rpart", trControl = ctrl, minsplit=5, minbucket=1)
                                                                                               ^
-/Users/yxchia/Documents/Github &amp; Codes/csc3007-black2/csc3007-black2/csc3007-black2.qmd:886:108: style: [infix_spaces_linter] Put spaces around all infix operators.
+/Users/yxchia/Documents/Github &amp; Codes/csc3007-black2/csc3007-black2/csc3007-black2.qmd:883:108: style: [infix_spaces_linter] Put spaces around all infix operators.
 model &lt;- train(cluster_id ~., data = merged_data, method = "rpart", trControl = ctrl, minsplit=5, minbucket=1)
                                                                                                            ^
-/Users/yxchia/Documents/Github &amp; Codes/csc3007-black2/csc3007-black2/csc3007-black2.qmd:891:11: warning: [seq_linter] 1:length(...) is likely to be wrong in the empty edge case. Use seq_along(...) instead.
+/Users/yxchia/Documents/Github &amp; Codes/csc3007-black2/csc3007-black2/csc3007-black2.qmd:888:11: warning: [seq_linter] 1:length(...) is likely to be wrong in the empty edge case. Use seq_along(...) instead.
 for (i in 1:length(tree$variable.importance)) {
           ^~~~~~~~~~~~~~~~~~~~~~~~~~~~~~~~~~
-/Users/yxchia/Documents/Github &amp; Codes/csc3007-black2/csc3007-black2/csc3007-black2.qmd:892:81: style: [line_length_linter] Lines should not be more than 80 characters.
+/Users/yxchia/Documents/Github &amp; Codes/csc3007-black2/csc3007-black2/csc3007-black2.qmd:889:81: style: [line_length_linter] Lines should not be more than 80 characters.
   relative_importance[i] &lt;- tree$variable.importance[i] / tree$variable.importance[1]
 ~~~~~~~~~~~~~~~~~~~~~~~~~~~~~~~~~~~~~~~~~~~~~~~~~~~~~~~~~~~~~~~~~~~~~~~~~~~~~~~~^~~~~</code></pre>
 </div>
